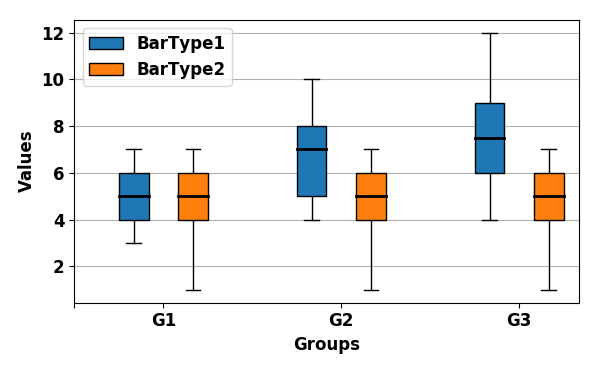
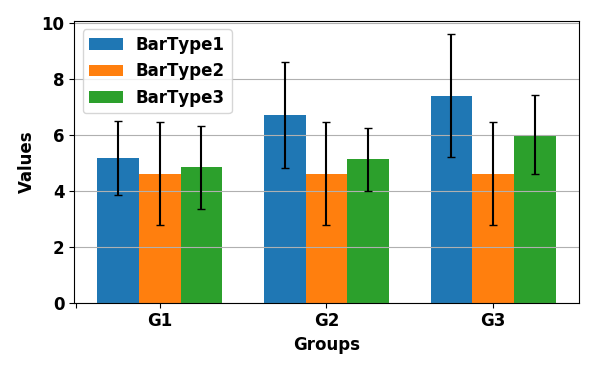
Update barplot

diff --git a/barplot.py b/barplot.py
@@ -1,14 +1,16 @@
 import matplotlib.pyplot as plt
+import statistics
+
 
 # Configuration ----------------------------------------
 
-# number of adjascent boxes = number of things to compare
-# legends, one for each box
-box_legends = ['BoxType1', 'BoxType2']
+# number of adjascent bars = number of things to compare
+# = legends, one for each box
+bar_legends = ['BarType1', 'BarType2', 'BarType3']
 
 
-# number of such groups of boxes = number of test cases
-# X labels = one for each group
+# number of such groups of bars = number of test cases
+# = X labels = one for each group
 group_labels = ["G1", "G2", "G3"]
 
 
@@ -16,7 +18,7 @@ xlabel = "Groups"
 ylabel = "Values"
 
 save=False
-file_name = "boxplot.eps"
+file_name = "barplot.eps"
 
 
 # Styles ------------------------------------------------
@@ -30,10 +32,11 @@ fig_size = (6, 4)
 
 #  Data-------------------------------------------------------
 #  Format = [
-#              [ [box1group1data],  [box1group2data],..],
-#              [ [box2group1data],  [box2group2data],..],
+#              [ [bar1group1data],  [bar1group2data],..],
+#              [ [bar2group1data],  [bar2group2data],..],
 #           ]
 
+#  OR YOU CAN ALSO PROVIDE MEAN AND STDEVS DIRECTLY
 
 data = [
 
@@ -47,16 +50,32 @@ data = [
 [1,2,3,4,5,6,7,4,4,5,6,6,7],
 [1,2,3,4,5,6,7,4,4,5,6,6,7],
 [1,2,3,4,5,6,7,4,4,5,6,6,7]
+],
+
+[
+[3,4,5,6,7,4],
+[4,5,6,7,4,4,5,6,],
+[5,6,7,4,4,5,6,6,7,8,8]
 ]
 
 ]
 
-
+data_means  = None
+data_stdev = None
 # ==============================================================================================
+
+if not data_means:
+    data_means = [ [statistics.mean(datalist) for datalist in bartype] for bartype in data ]
+
+if not data_stdev:
+    data_stdev = [ [statistics.stdev(datalist) for datalist in bartype] for bartype in data ]
+
+# print(data_means)
+# print(data_stdev)
 
 # compute positions
 number_of_groups =  len(group_labels)
-number_of_boxes = len(box_legends)
+number_of_boxes = len(bar_legends)
 
 positions = []
 for i in range(number_of_boxes):
@@ -84,21 +103,17 @@ fig.set_size_inches(fig_size[0], fig_size[1])
 
 
 # rectangular box plot
-medianprops = dict(linewidth=2, color='black')
-bplots = []
 k = 0
-for data_group in data:
-    bplot = plt.boxplot(data_group,
-                        vert=True,  # vertical box alignment
-                        patch_artist=True,  # fill with color
-                        # labels=labels[k:k+4],
-                        positions=positions[k],
-                        boxprops=dict(facecolor=colors[k]),
-                        medianprops=medianprops)
-    bplots.append(bplot)
+bplots = []
+for data_group in data_means:
+    print(data_group,data_stdev[k])
+    print(positions[k])
+    barplot = plt.bar(positions[k], data_group, 1, yerr=data_stdev[k], capsize=3)
     k += 1
+    bplots.append(barplot)
+plt.legend([bp[0] for bp in bplots], bar_legends, loc='upper left')
 
-plt.legend([bp["boxes"][0] for bp in bplots], box_legends, loc='upper left')
+
 
 
 plt.ylabel(ylabel)
